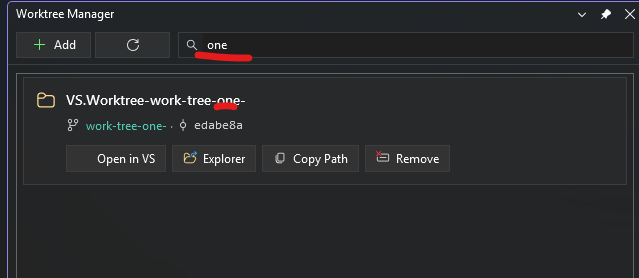
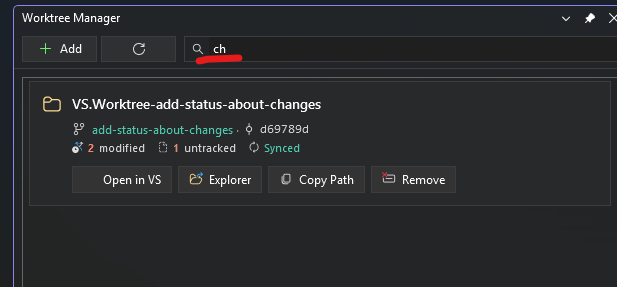
Update README: add live status, force remove, new screenshots
Expanded documentation to cover new live Git status indicators, async status fetching, and improved safety features including force remove for dirty worktrees. Updated and added screenshots to illustrate new UI and features. README now provides clearer guidance on worktree management, safety, and error handling.

Changed region(s): [[0.0, 0.0, 1.0, 1.0], [0.0924, 0.4317, 0.5851, 0.6906], [0.5851, 0.5468, 0.7391, 0.6906]]

diff --git a/README.md b/README.md
@@ -24,6 +24,14 @@ See all your Git worktrees in a clean, card-based layout. Each worktree displays
 - Latest commit SHA
 - Status badges (CURRENT, MAIN, LOCKED)
 
+### 📊 Live Git Status (New)
+
+Get real-time insights into each worktree without switching branches:
+- **Modified files**: Count of changed and staged files.
+- **Untracked files**: Count of new files not yet tracked by Git.
+- **Sync Status**: See exactly how many commits you are ahead or behind from upstream.
+- **Non-blocking**: Status is fetched asynchronously in the background so the UI stays snappy.
+
 ![Worktree List](docs/screenshots/List.png)
 
 ### ➕ Create New Worktrees
@@ -54,16 +62,20 @@ Each worktree card provides quick action buttons:
 | **Open in VS** | Opens the worktree in a new Visual Studio instance |
 | **Explorer** | Opens the worktree folder in Windows File Explorer |
 | **Copy Path** | Copies the full path to clipboard |
-| **Remove** | Removes the worktree (with safety checks) |
+| **Remove** | Removes the worktree (includes **Force Remove** for dirty worktrees) |
 
 ![Quick Actions](docs/screenshots/QuickAction.png)
 
 ### 🛡 Safety Features
 
-- Cannot remove the currently open worktree
-- Cannot remove the main worktree
-- Clear error messages for locked files or uncommitted changes
-- Handles partial failures gracefully (e.g., git reference removed but folder locked)
+- **Force Remove**: Safely remove worktrees even with uncommitted changes using a confirmation safety dialog.
+
+![Force Remove](docs/screenshots/ForceRemove.png)
+
+- **Protected Worktrees**: Cannot remove the currently open worktree or the main worktree.
+- **Locked State**: Detects and displays locked worktrees with reasons.
+- **Smart Enrichment**: Intelligent status fetching with timeouts to prevent hanging on large repositories.
+- **Error Handling**: Handles partial failures gracefully (e.g., git reference removed but folder locked).
 
 ![Error Handling](docs/screenshots/Error.png)
 
